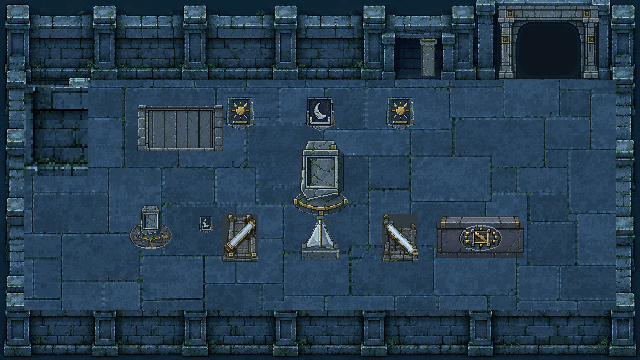
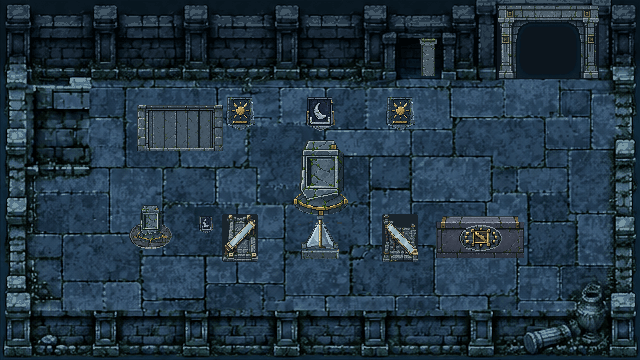
art(level08): restyle the temple backdrop and mirrors
- Use the 640x360 backdrop source as painted instead of cropping and
  rescaling its floor, buttress and cap in the exporter.
- Repaint the temple backdrop with contact depth, decor and material detail.
- Repaint the four mirror states inside their original silhouettes.
- Re-export the Level 08 native sprites, previews and manifest.

Changed region(s): [[0.0, 0.0, 1.0, 1.0], [0.4375, 0.3361, 0.4688, 0.3667], [0.4062, 0.3056, 0.4375, 0.3361]]

diff --git a/assets/levels/08-ruins-of-two-halves/redesign-v2/asset-report.md b/assets/levels/08-ruins-of-two-halves/redesign-v2/asset-report.md
@@ -28,10 +28,10 @@ Generated from decoded PNG pixels, not declared dimensions.
 | test-column-notch-2.png | 32×44 | 109 | 2, 4, 28, 38 | PASS | 128 |
 | test-column-notch-3.png | 32×44 | 97 | 2, 4, 28, 38 | PASS | 128 |
 | test-pedestal.png | 48×36 | 128 | 3, 6, 43, 27 | PASS | 128 |
-| mirror_0.png | 36×48 | 113 | 0, 0, 36, 48 | PASS | 128 |
-| mirror_1.png | 36×48 | 108 | 0, 0, 36, 48 | PASS | 128 |
-| mirror_2.png | 36×48 | 116 | 0, 0, 36, 48 | PASS | 128 |
-| mirror_3.png | 36×48 | 115 | 0, 0, 36, 48 | PASS | 128 |
+| mirror_0.png | 36×48 | 39 | 0, 0, 36, 48 | PASS | 40 |
+| mirror_1.png | 36×48 | 39 | 0, 0, 36, 48 | PASS | 40 |
+| mirror_2.png | 36×48 | 40 | 0, 0, 36, 48 | PASS | 40 |
+| mirror_3.png | 36×48 | 40 | 0, 0, 36, 48 | PASS | 40 |
 | ruins_altar.png | 104×52 | 128 | 8, 6, 88, 42 | PASS | 128 |
 | beacon_stone.png | 34×46 | 127 | 6, 4, 18, 38 | PASS | 127 |
 | temple-scene-base.png | 640×360 | 128 | 0, 0, 640, 360 | PASS | 128 |
